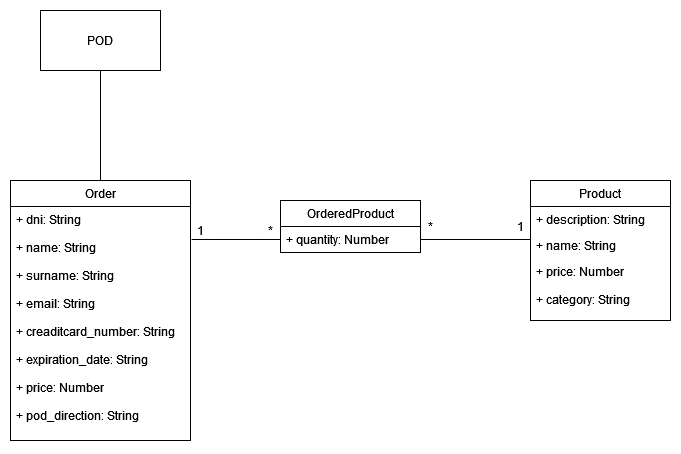
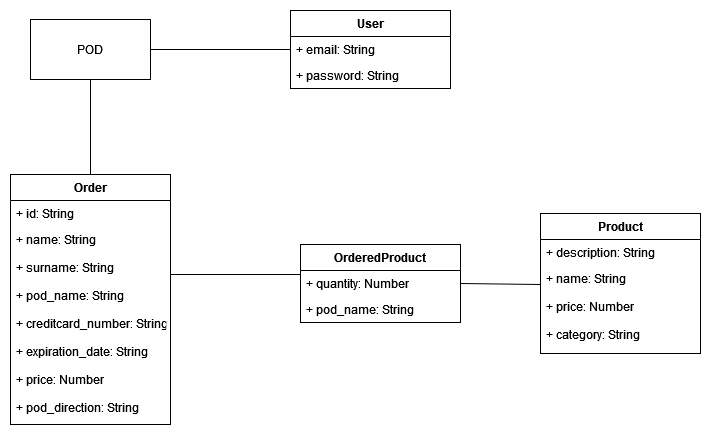
Updates

diff --git a/index.html b/index.html
@@ -504,6 +504,10 @@ body.book #toc,body.book #preamble,body.book h1.sect0,body.book .sect1>h2{page-b
 <li><a href="#_using_pod">9.2. Using POD</a></li>
 <li><a href="#_using_a_local_database_at_the_beginning_and_then_insert_it_into_the_project">9.3. Using a local database at the beginning and then insert it into the project</a></li>
 <li><a href="#_choosing_the_language_well_use_in_the_documentation">9.4. Choosing the language we´ll use in the documentation</a></li>
+<li><a href="#_choosing_the_storage_of_images_for_the_webapp">9.5. Choosing the storage of images for the webapp</a></li>
+<li><a href="#_using_an_extra_database_for_the_tests">9.6. Using an extra database for the tests</a></li>
+<li><a href="#_calculate_the_distance_between_two_points">9.7. Calculate the distance between two points</a></li>
+<li><a href="#_deployment_service">9.8. Deployment service</a></li>
 </ul>
 </li>
 <li><a href="#section-quality-scenarios">10. Quality Requirements</a>
@@ -562,7 +566,7 @@ For documentation of your own system you use better the <em>plain</em> version.<
 <h2 id="section-introduction-and-goals">1. Introduction and Goals</h2>
 <div class="sectionbody">
 <div class="paragraph">
-<p>Decentraliced Delivery or DeDe is a new, decentralized, and open-source delivery system. Based on the Solid Priciples for privacy and security. This application is designed for:</p>
+<p>Decentraliced Delivery or DeDe is a new, decentralized, and open-source delivery system. Based on the Solid Priciples for privacy and security. The application focuses on the sale of sporting goods, especially balls and rackets. This application is designed for:</p>
 </div>
 <div class="ulist">
 <ul>
@@ -690,6 +694,11 @@ For documentation of your own system you use better the <em>plain</em> version.<
 <td class="tableblock halign-left valign-top"><p class="tableblock">Developers</p></td>
 <td class="tableblock halign-left valign-top"><p class="tableblock">Team in charge of developing and testing the project (dedeportes)</p></td>
 <td class="tableblock halign-left valign-top"><p class="tableblock">They create the project from the skeleton iteratively. They are responsible for making the application functional and secure</p></td>
+</tr>
+<tr>
+<td class="tableblock halign-left valign-top"><p class="tableblock">Admin</p></td>
+<td class="tableblock halign-left valign-top"><p class="tableblock">He use the aplication with priviliges</p></td>
+<td class="tableblock halign-left valign-top"><p class="tableblock">It is a special user that has privileges to see all orders placed</p></td>
 </tr>
 </tbody>
 </table>
@@ -1524,6 +1533,9 @@ on this list.</p>
 <div class="paragraph">
 <p><span class="image"><img src="./images/08-domainModel.png" alt="UML Diagram"></span></p>
 </div>
+<div class="paragraph">
+<p>Although for the project we are using MongoDB, which is a non-relational database, our data model will be based on a model of entities and relationships.</p>
+</div>
 </div>
 <div class="sect2">
 <h3 id="_domain_concepts">8.2. Domain concepts</h3>
@@ -1544,13 +1556,10 @@ on this list.</p>
 <li>
 <p><strong>OrderedProduct</strong> will store the products of the multiple orders. Each one will have the product´s id and the order´s id.</p>
 </li>
-<li>
-<p><strong>Credit Card:</strong> each user can have more than one credit cards associated t buy in the store. Will be inside the order entity.</p>
-</li>
-<li>
-<p><strong>Administrator:</strong> could do changes in the application.</p>
-</li>
 </ul>
+</div>
+<div class="paragraph">
+<p>In our application there´s going to be an administrator wich information is going to be stored in the user collection.</p>
 </div>
 </div>
 <div class="sect2">
@@ -1586,7 +1595,7 @@ on this list.</p>
 <div class="sect2">
 <h3 id="_internationalization">8.6. Internationalization</h3>
 <div class="paragraph">
-<p>Only supported language is English. There is no hook for doing internationalization in the frontend and there are no plans for creating one for now.</p>
+<p>Only supported language is Spanish. There is no hook for doing internationalization in the frontend and there are no plans for creating one for now.</p>
 </div>
 <div style="page-break-after: always;"></div>
 </div>
@@ -1655,6 +1664,66 @@ When the project progresses, after the second project´s review we will use Mong
 <div class="title">Status</div>
 <p>Accepted</p>
 </div>
+</div>
+<div class="sect2">
+<h3 id="_choosing_the_storage_of_images_for_the_webapp">9.5. Choosing the storage of images for the webapp</h3>
+<div class="paragraph">
+<div class="title">Problem</div>
+<p>Saving the stock images localy can be a problem if the cuantity and size of them are big, also the way to store it online is easier than locally</p>
+</div>
+<div class="paragraph">
+<div class="title">Decision</div>
+<p>We&#8217;ll use Cloudiary to store the images, we will save on the database the url pointing to the concrete photo to display it on the webapp.</p>
+</div>
+<div class="paragraph">
+<div class="title">Status</div>
+<p>Accepted</p>
+</div>
+</div>
+<div class="sect2">
+<h3 id="_using_an_extra_database_for_the_tests">9.6. Using an extra database for the tests</h3>
+<div class="paragraph">
+<div class="title">Problem</div>
+<p>We have to run the backend tests lots of times to test them, so our database will have lots of unused data.</p>
+</div>
+<div class="paragraph">
+<div class="title">Decision</div>
+<p>We will use an extra database to run the restapi tests to not fill up our main database since to run the backend tests we need to run them many times.</p>
+</div>
+<div class="paragraph">
+<div class="title">Status</div>
+<p>Accepted</p>
+</div>
+</div>
+<div class="sect2">
+<h3 id="_calculate_the_distance_between_two_points">9.7. Calculate the distance between two points</h3>
+<div class="paragraph">
+<div class="title">Problem</div>
+<p>To calculate the shipping price we need to get the coordinates of the address of the client.</p>
+</div>
+<div class="paragraph">
+<div class="title">Decision</div>
+<p>We use the MAPBOX api to get the coordinates of the address then with an mathematical formula to calculate the distance, then we asing a cost to the distance.</p>
+</div>
+<div class="paragraph">
+<div class="title">Status</div>
+<p>Accepted</p>
+</div>
+</div>
+<div class="sect2">
+<h3 id="_deployment_service">9.8. Deployment service</h3>
+<div class="paragraph">
+<div class="title">Problem</div>
+<p>To deploy the app we need a provider, we ha thought to use Heroku but at that moment it had a problem.</p>
+</div>
+<div class="paragraph">
+<div class="title">Decision</div>
+<p>We use AWS to deploy the app, also we deploy it by SSH on the CI.</p>
+</div>
+<div class="paragraph">
+<div class="title">Status</div>
+<p>Accepted</p>
+</div>
 <div style="page-break-after: always;"></div>
 </div>
 </div>
@@ -1673,19 +1742,19 @@ When the project progresses, after the second project´s review we will use Mong
 <div class="sect3">
 <h4 id="_security_2">10.2.1. Security</h4>
 <div class="paragraph">
-<p>By saving on the SOLID PODs the information of the user and also by only having esential info on the database.</p>
+<p>By saving on the SOLID PODs the information of the user and also by only having esential info on the database. Also we encrypt the data of the petitions.</p>
 </div>
 </div>
 <div class="sect3">
 <h4 id="_testability_coverage">10.2.2. Testability / Coverage</h4>
 <div class="paragraph">
-<p>Using Cucumber for testing and Codecov for code coverge we ensure the quality of the aplication.</p>
+<p>We use Codecov and Sonarcloud during development to get the most coverage of our code. Also we are using js tests for testing both restapi and webapp, Jest for e2e tests and gatling for performance tests. This ensure code and app quality.</p>
 </div>
 </div>
 <div class="sect3">
 <h4 id="_eficency">10.2.3. Eficency</h4>
 <div class="paragraph">
-<p>We need to ensure a fast conection and transaction between the user and the app.</p>
+<p>We need to ensure a fast conection and transaction between the user and the app. Galting is used to ensure this.</p>
 </div>
 <div style="page-break-after: always;"></div>
 </div>
@@ -1733,14 +1802,57 @@ When the project progresses, after the second project´s review we will use Mong
 <td class="tableblock halign-left valign-top"><p class="tableblock">Team</p></td>
 <td class="tableblock halign-left valign-top"><p class="tableblock">Working in teams with a certain number of people is never a simple task. The best solution is to hold weekly meetings to get to know each other and have constant communication to solve any problem that arises together.</p></td>
 </tr>
+<tr>
+<td class="tableblock halign-left valign-top"><p class="tableblock">Pod´s</p></td>
+<td class="tableblock halign-left valign-top"><p class="tableblock">During the project, mastery of this technology led to different problems that were resolved</p></td>
+</tr>
+<tr>
+<td class="tableblock halign-left valign-top"><p class="tableblock">URL Api test</p></td>
+<td class="tableblock halign-left valign-top"><p class="tableblock">Despite trying to use the .env file to make the connection to the database, we had to hardcode it</p></td>
+</tr>
+<tr>
+<td class="tableblock halign-left valign-top"><p class="tableblock">Deployment</p></td>
+<td class="tableblock halign-left valign-top"><p class="tableblock">The deployment of the application has been a problem. At first we had chosen heroku but we ended up doing it on Amazon</p></td>
+</tr>
 </tbody>
 </table>
 </div>
 <div class="sect2">
 <h3 id="_tecnical_debts">11.2. Tecnical Debts</h3>
-<div class="paragraph">
-<p>For the moment the retrieve of the address of the pod will be done by having a note in the pod.</p>
-</div>
+<table class="tableblock frame-all grid-all stretch">
+<colgroup>
+<col style="width: 50%;">
+<col style="width: 50%;">
+</colgroup>
+<thead>
+<tr>
+<th class="tableblock halign-left valign-top">Problem</th>
+<th class="tableblock halign-left valign-top">Explication</th>
+</tr>
+</thead>
+<tbody>
+<tr>
+<td class="tableblock halign-left valign-top"><p class="tableblock">Pod´s data in deployment</p></td>
+<td class="tableblock halign-left valign-top"><p class="tableblock">Due to using amazon web service as a means of deployment, when testing the deployed application it is not allowed to access the information of the pods.</p></td>
+</tr>
+<tr>
+<td class="tableblock halign-left valign-top"><p class="tableblock">Double order creation</p></td>
+<td class="tableblock halign-left valign-top"><p class="tableblock">When an order is created from the application, an extra order is generated for each payment. After reviewing the project we have not found the error</p></td>
+</tr>
+<tr>
+<td class="tableblock halign-left valign-top"><p class="tableblock">Test e2e</p></td>
+<td class="tableblock halign-left valign-top"><p class="tableblock">During the test we have not been able to access the menu buttons, so a not found error appeared. The solution we have taken has been to carry out the tests even if they fail</p></td>
+</tr>
+<tr>
+<td class="tableblock halign-left valign-top"><p class="tableblock">Menu nav</p></td>
+<td class="tableblock halign-left valign-top"><p class="tableblock">When you start using the pods in the application, the application&#8217;s nav menu changes color</p></td>
+</tr>
+<tr>
+<td class="tableblock halign-left valign-top"><p class="tableblock">Hardcoding</p></td>
+<td class="tableblock halign-left valign-top"><p class="tableblock">The compatibility between the URLs of the connections in the .env file and the deployment has given problems. The solution taken has been to hardcode and use the NOSONAR comment</p></td>
+</tr>
+</tbody>
+</table>
 <div style="page-break-after: always;"></div>
 </div>
 </div>
@@ -1788,6 +1900,62 @@ When the project progresses, after the second project´s review we will use Mong
 <td class="tableblock halign-left valign-top"><p class="tableblock">Release or tag</p></td>
 <td class="tableblock halign-left valign-top"><p class="tableblock">A tag allows you to specify uncommit in git and store the current state of the project in .tar format.</p></td>
 </tr>
+<tr>
+<td class="tableblock halign-left valign-top"><p class="tableblock">Node</p></td>
+<td class="tableblock halign-left valign-top"><p class="tableblock">Node is an environment that allows you to establish different connections at the same time. Its use is based on events.</p></td>
+</tr>
+<tr>
+<td class="tableblock halign-left valign-top"><p class="tableblock">Jest</p></td>
+<td class="tableblock halign-left valign-top"><p class="tableblock">It is a library that allows you to run tests quickly and efficiently.</p></td>
+</tr>
+<tr>
+<td class="tableblock halign-left valign-top"><p class="tableblock">Crypto</p></td>
+<td class="tableblock halign-left valign-top"><p class="tableblock">Crytpo is a module that allows passwords to be encrypted when saving them in a database. This increases the security of the application. We use sha-256.</p></td>
+</tr>
+<tr>
+<td class="tableblock halign-left valign-top"><p class="tableblock">Uuid</p></td>
+<td class="tableblock halign-left valign-top"><p class="tableblock">Node module that automatically creates id combinations so they are unique.</p></td>
+</tr>
+<tr>
+<td class="tableblock halign-left valign-top"><p class="tableblock">Heroku</p></td>
+<td class="tableblock halign-left valign-top"><p class="tableblock">Heroku is a cloud storage platform specialized in react projects. It is a high quality option in terms of safety and maintenance.</p></td>
+</tr>
+<tr>
+<td class="tableblock halign-left valign-top"><p class="tableblock">AWS</p></td>
+<td class="tableblock halign-left valign-top"><p class="tableblock">Cloud storage service specialized in shared resources, mobile applications or databases. It is a globalized option that offers guarantees in terms of security, accessibility, visibility and cost.</p></td>
+</tr>
+<tr>
+<td class="tableblock halign-left valign-top"><p class="tableblock">Dotenv</p></td>
+<td class="tableblock halign-left valign-top"><p class="tableblock">It is an external tool to handle environment variables. In this way, in the project there is an .env file in which the connection urls are stored</p></td>
+</tr>
+<tr>
+<td class="tableblock halign-left valign-top"><p class="tableblock">Draw.io</p></td>
+<td class="tableblock halign-left valign-top"><p class="tableblock">It´s the tool we use to create the domain model</p></td>
+</tr>
+<tr>
+<td class="tableblock halign-left valign-top"><p class="tableblock">PlantUML</p></td>
+<td class="tableblock halign-left valign-top"><p class="tableblock">Open source tool with which we create sequence diagrams textually</p></td>
+</tr>
+<tr>
+<td class="tableblock halign-left valign-top"><p class="tableblock">Mapbox API</p></td>
+<td class="tableblock halign-left valign-top"><p class="tableblock">API that we use in our code to calculate the distances to the clients</p></td>
+</tr>
+<tr>
+<td class="tableblock halign-left valign-top"><p class="tableblock">Arc42</p></td>
+<td class="tableblock halign-left valign-top"><p class="tableblock">Arc 42 is a perfect documentation template for a project specification</p></td>
+</tr>
+<tr>
+<td class="tableblock halign-left valign-top"><p class="tableblock">MERN</p></td>
+<td class="tableblock halign-left valign-top"><p class="tableblock">It is the name given to the use of a series of technologies: MongoDB, ReactJS, Express and Node</p></td>
+</tr>
+<tr>
+<td class="tableblock halign-left valign-top"><p class="tableblock">Mui</p></td>
+<td class="tableblock halign-left valign-top"><p class="tableblock">It is a library that provides you with all the necessary tools to carry out the design and development of your application</p></td>
+</tr>
+<tr>
+<td class="tableblock halign-left valign-top"><p class="tableblock">Toast</p></td>
+<td class="tableblock halign-left valign-top"><p class="tableblock">Informational message that appears on the screen for a few seconds without requiring acceptance</p></td>
+</tr>
 </tbody>
 </table>
 <div style="page-break-after: always;"></div>
@@ -1815,7 +1983,7 @@ Created by Dr. Peter Hruschka &amp; Dr. Gernot Starke.</p>
 </div>
 <div id="footer">
 <div id="footer-text">
-Last updated 2022-04-04 08:47:22 +0200
+Last updated 2022-02-24 15:10:22 +0100
 </div>
 </div>
 </body>
